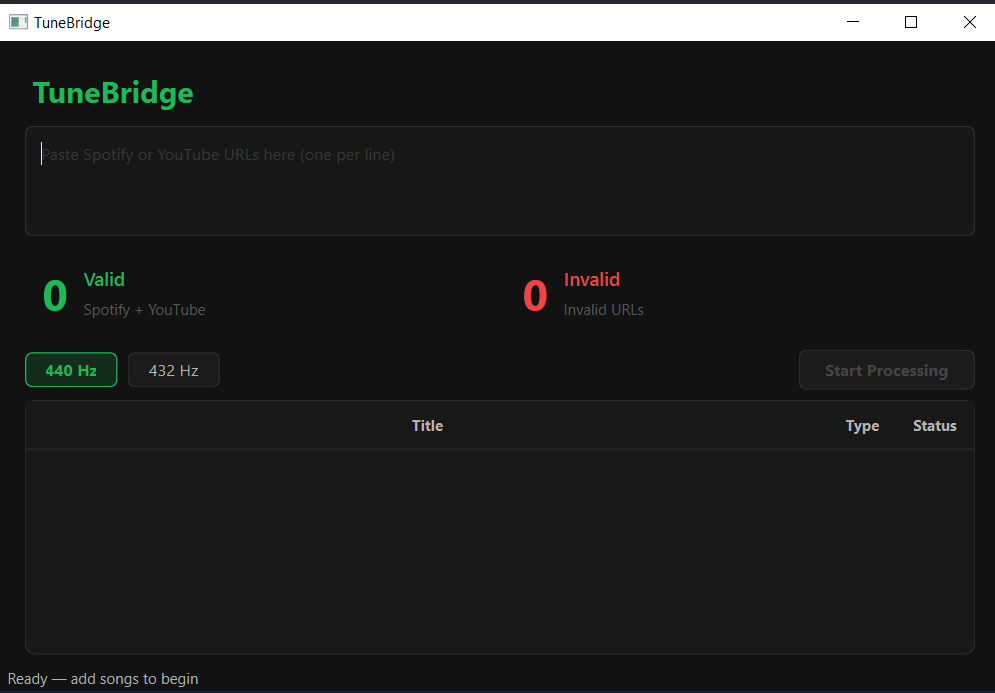
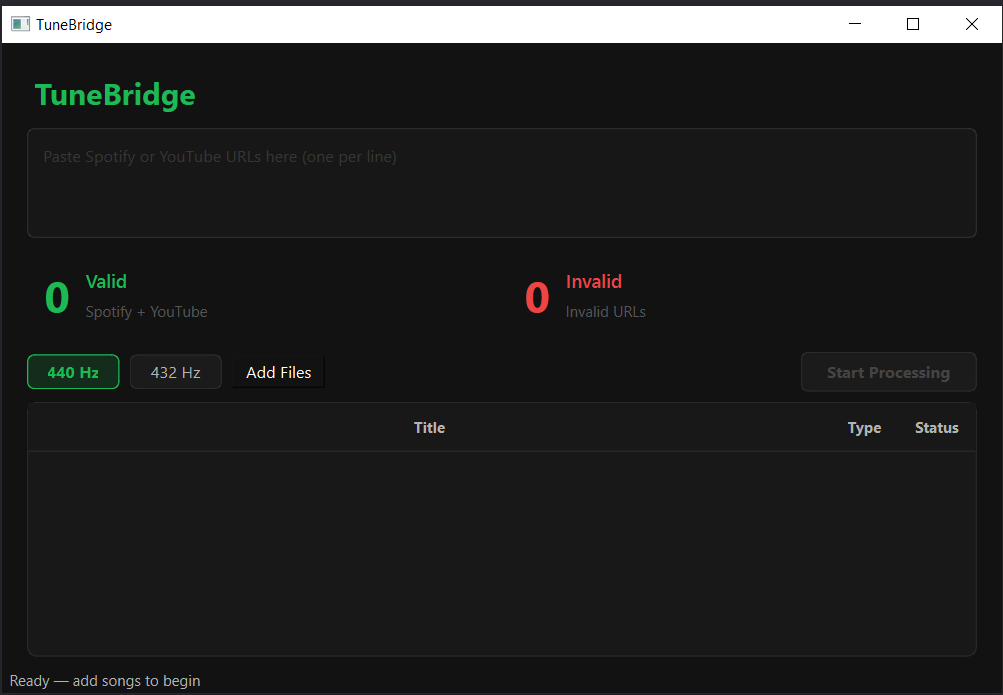
docs: update README and screenshot for local file upload (Phase 7)

diff --git a/README.md b/README.md
@@ -4,13 +4,14 @@
 [![License: MIT](https://img.shields.io/badge/License-MIT-yellow.svg)](LICENSE)
 [![Python 3.11+](https://img.shields.io/badge/python-3.11+-blue.svg)](https://www.python.org/downloads/)
 
-A desktop app that takes Spotify or YouTube track URLs, finds the best audio match on YouTube, downloads it, optionally retunes from 440 Hz to 432 Hz, organizes files into your existing folder structure, and uploads them to iBroadcast — all in one automated pipeline.
+A desktop app that takes Spotify or YouTube track URLs — or local audio files — finds the best audio match on YouTube, downloads it, optionally retunes from 440 Hz to 432 Hz, organizes files into your existing folder structure, and uploads them to iBroadcast — all in one automated pipeline.
 
 ![TuneBridge UI](docs/screenshot.png)
 
 ## Features
 
-- **Dual input** — paste Spotify URLs or YouTube URLs (mixed batches supported)
+- **Flexible input** — paste Spotify URLs or YouTube URLs (mixed batches supported), or add local audio files via **Add Files**
+- **Local file upload** — pull in MP3/FLAC/WAV files from disk; metadata is read from embedded tags (with filename fallback) and the same retune/organize/upload pipeline applies
 - **Spotify metadata** — scrapes track title, artist, album, and duration from the public Spotify page (no API key required)
 - **YouTube audio matching** — searches YouTube via yt-dlp and picks the best audio-only match using duration and title scoring
 - **Batch downloads** — parallel downloads with dynamic thread count based on queue size
@@ -50,7 +51,7 @@ IBROADCAST_PASSWORD=yourpassword
 python tunebridge.py
 ```
 
-1. Paste one or more Spotify or YouTube URLs into the input box (one per line)
+1. Paste one or more Spotify or YouTube URLs into the input box (one per line), and/or click **Add Files** to pick local audio files
 2. Select **440 Hz** or **432 Hz** for the batch
 3. Click **Start Processing**
 4. Confirm the destination folder for each song as it completes
